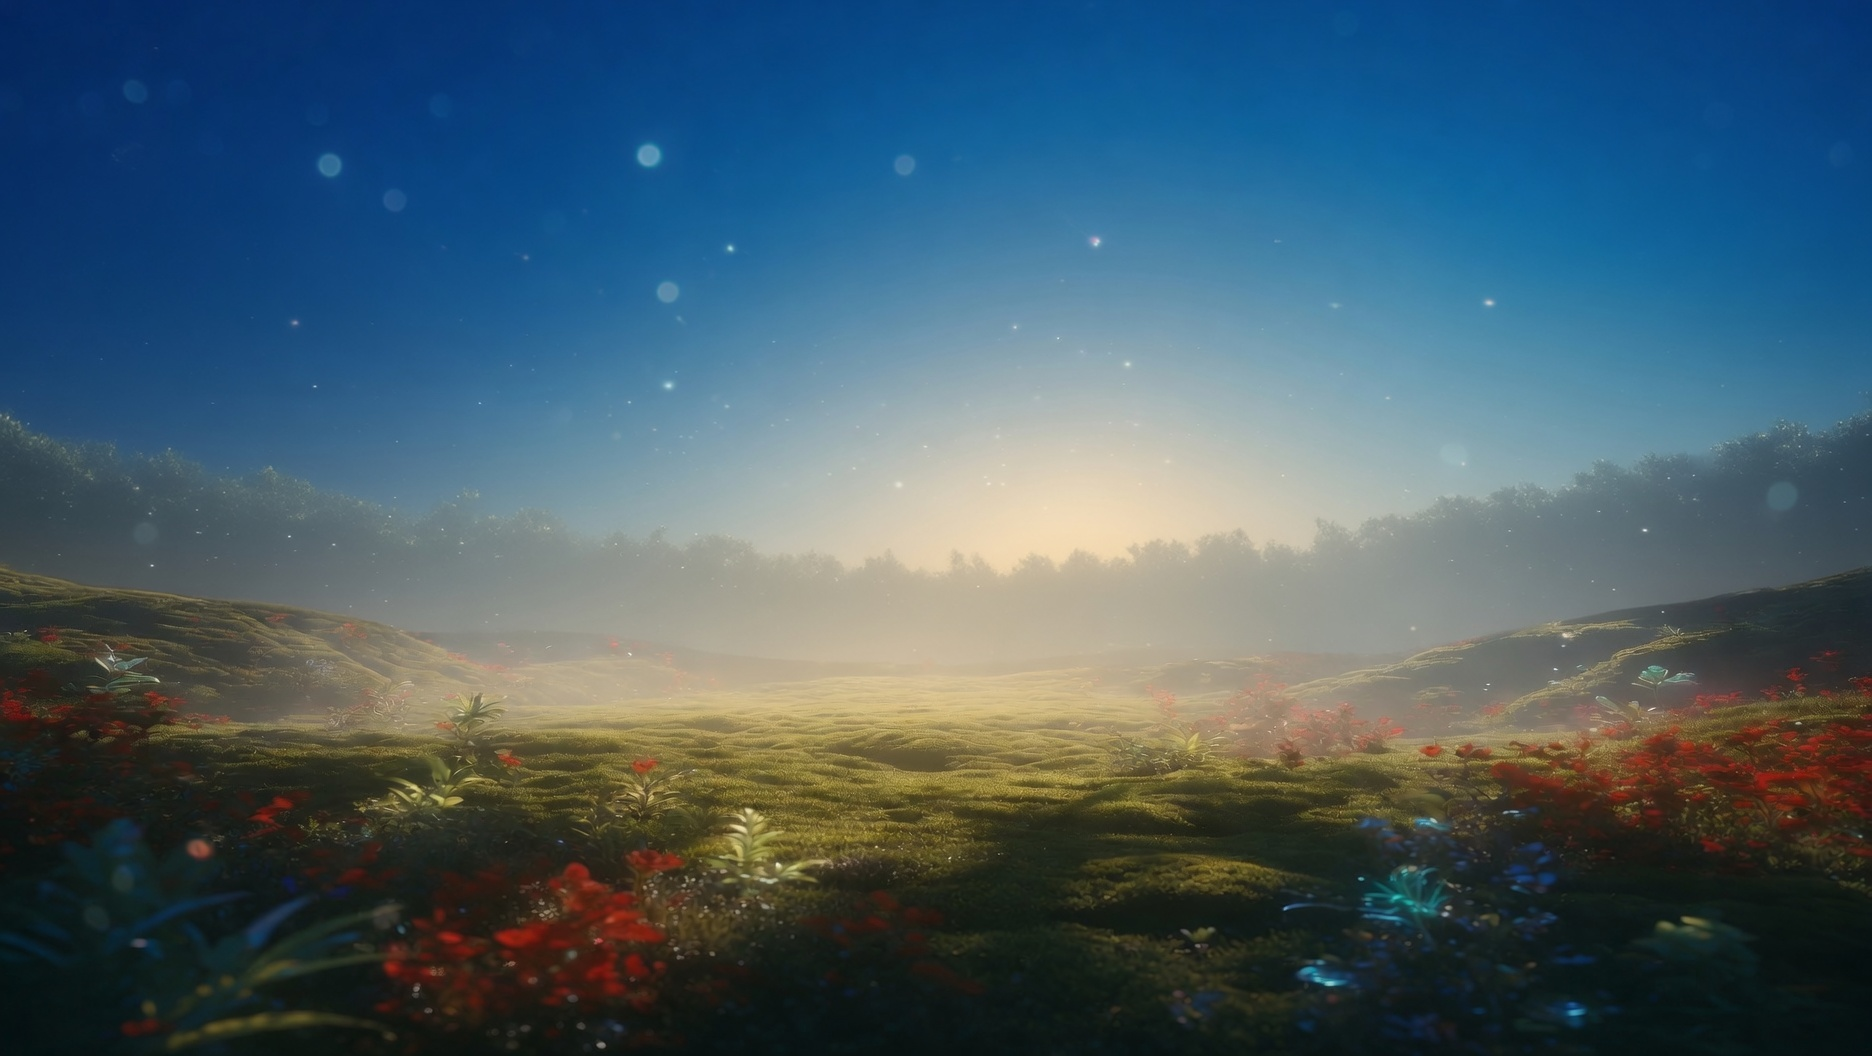
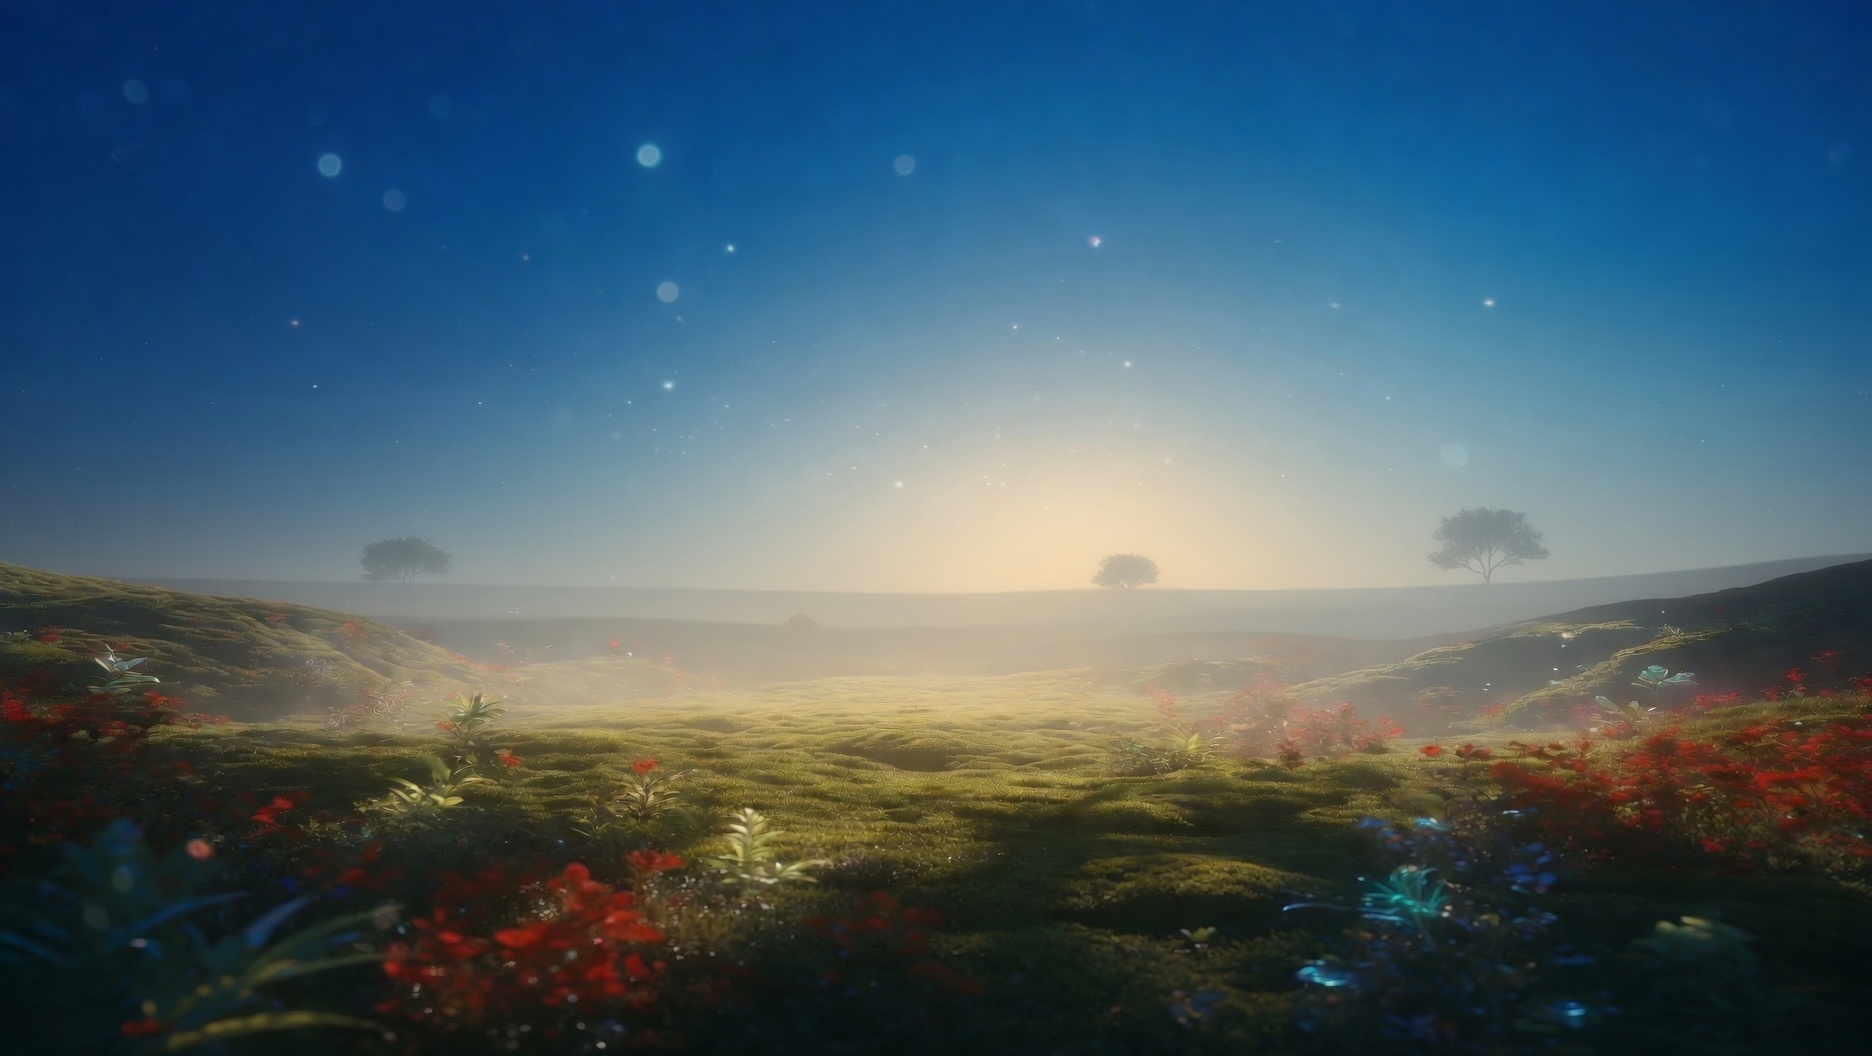
Replace landscape-01 with new background image; add cache-busting to asset URLs
Amp-Thread-ID: https://ampcode.com/threads/T-019e0e28-f20f-7725-9c3e-989ab7dda13a

Changed region(s): [[0.3098, 0.375, 1.0, 0.5938], [0.0, 0.375, 0.2479, 0.5625], [0.2479, 0.5312, 0.2788, 0.5625]]

diff --git a/src/lib/Stage.svelte b/src/lib/Stage.svelte
@@ -9,18 +9,22 @@
 	}
 	let { stage, status = 'growing', hasSession, density }: Props = $props();
 
+	// cache-busting query string: stable per page load, refreshes on reload so
+	// replaced asset files show up immediately without needing a hard refresh.
+	const CACHE_BUST = `?v=${Date.now()}`;
+
 	// landscapes from sparse → dense; clamp density into range
 	const LANDSCAPE_COUNT = 13;
 	const landscapes = Array.from({ length: LANDSCAPE_COUNT }, (_, i) => ({
-		src: `/assets/landscape-${String(i + 1).padStart(2, '0')}.jpg`
+		src: `/assets/landscape-${String(i + 1).padStart(2, '0')}.jpg${CACHE_BUST}`
 	}));
-	const DEAD_LAND_SRC = '/assets/dead-land.jpg';
+	const DEAD_LAND_SRC = `/assets/dead-land.jpg${CACHE_BUST}`;
 	const growthImgs = [
-		'/assets/growth-0.jpg',
-		'/assets/growth-1.png',
-		'/assets/growth-2.jpg',
-		'/assets/growth-3.jpg',
-		'/assets/growth-4.jpg'
+		`/assets/growth-0.jpg${CACHE_BUST}`,
+		`/assets/growth-1.png${CACHE_BUST}`,
+		`/assets/growth-2.jpg${CACHE_BUST}`,
+		`/assets/growth-3.jpg${CACHE_BUST}`,
+		`/assets/growth-4.jpg${CACHE_BUST}`
 	];
 
 	let isDead = $derived(density < 0);
